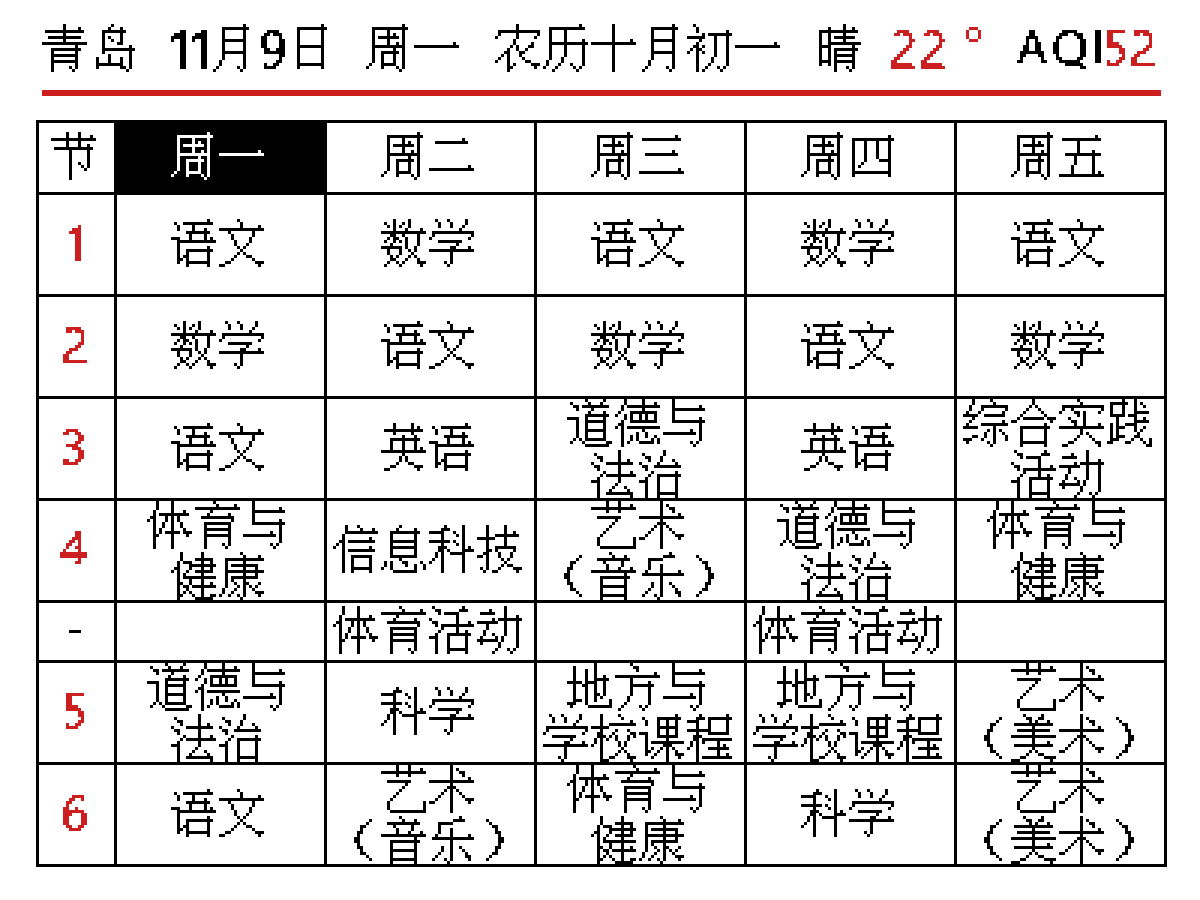
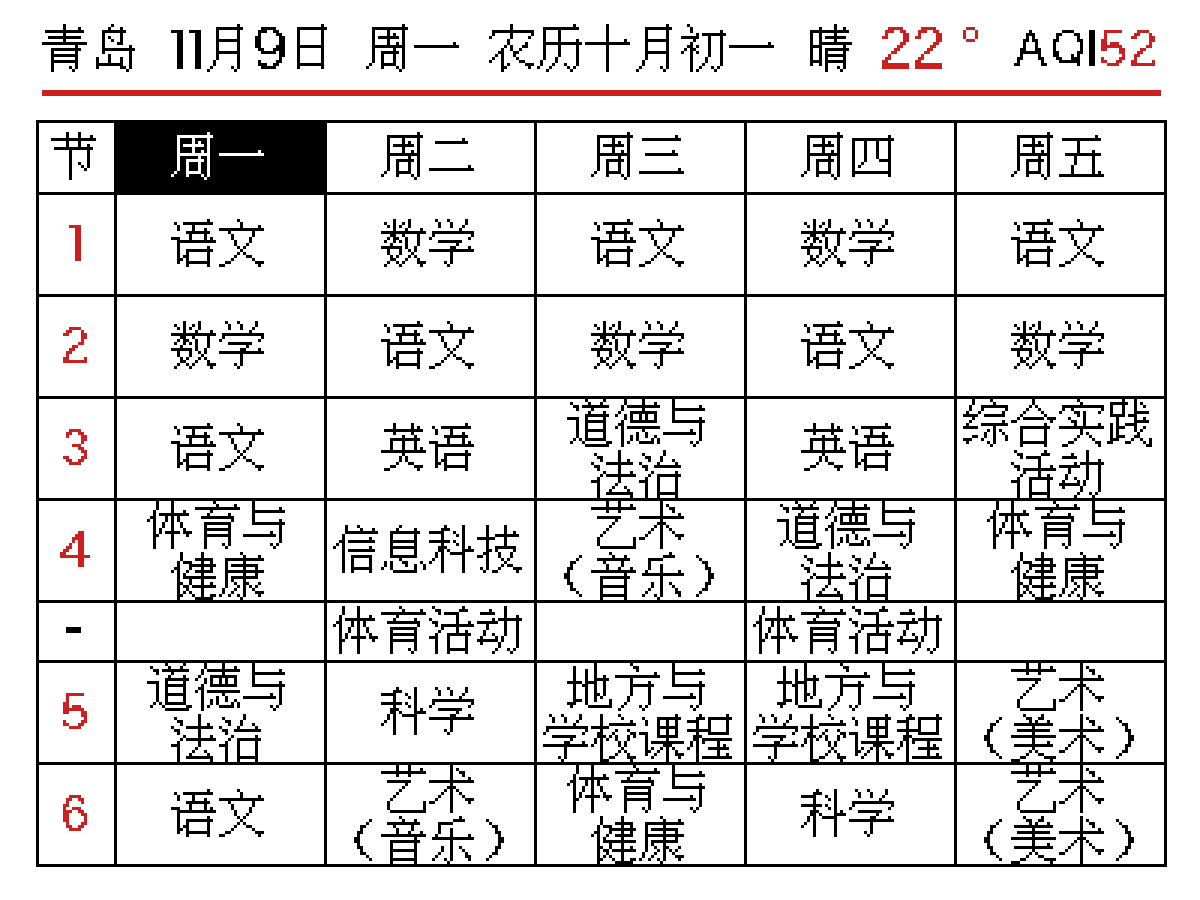
feat: hourly RGB blink for class timetable

diff --git a/README.md b/README.md
@@ -18,6 +18,8 @@
 
 切换方式见「快速开始」第 5 步。默认应用由设备根目录 `main.py` 的 import 决定。
 
+**整点提示灯**：课表应用在整点用板载 RGB（WS2812B / GPIO48）闪蓝色 3 下（约 0.9 秒），**不刷新墨水屏**。参数在 `week_class_list.py` 顶部：`HOURLY_BLINK`、`BLINK_COLOR`、`BLINK_TIMES`、`BLINK_ON_MS`、`BLINK_OFF_MS`。板上另外三个小灯中，红色电源灯由 3V3 硬接线常亮，TX/RX 灯由 USB 串口芯片驱动，程序均无法控制。
+
 ---
 
 ## 二、硬件与接线
